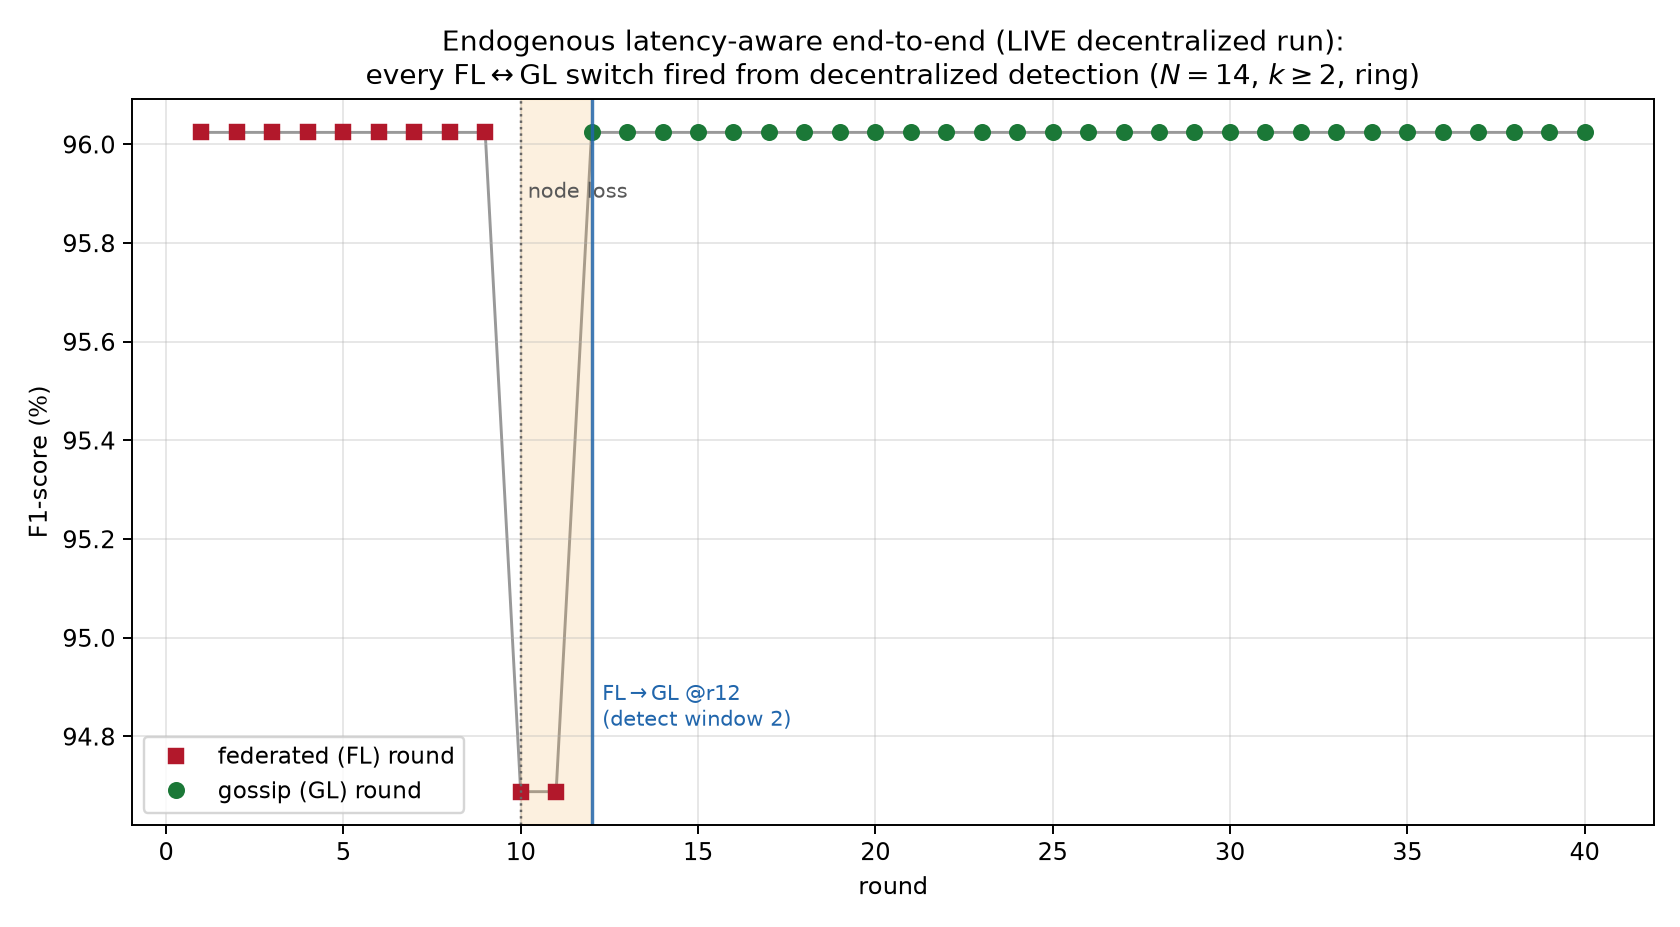
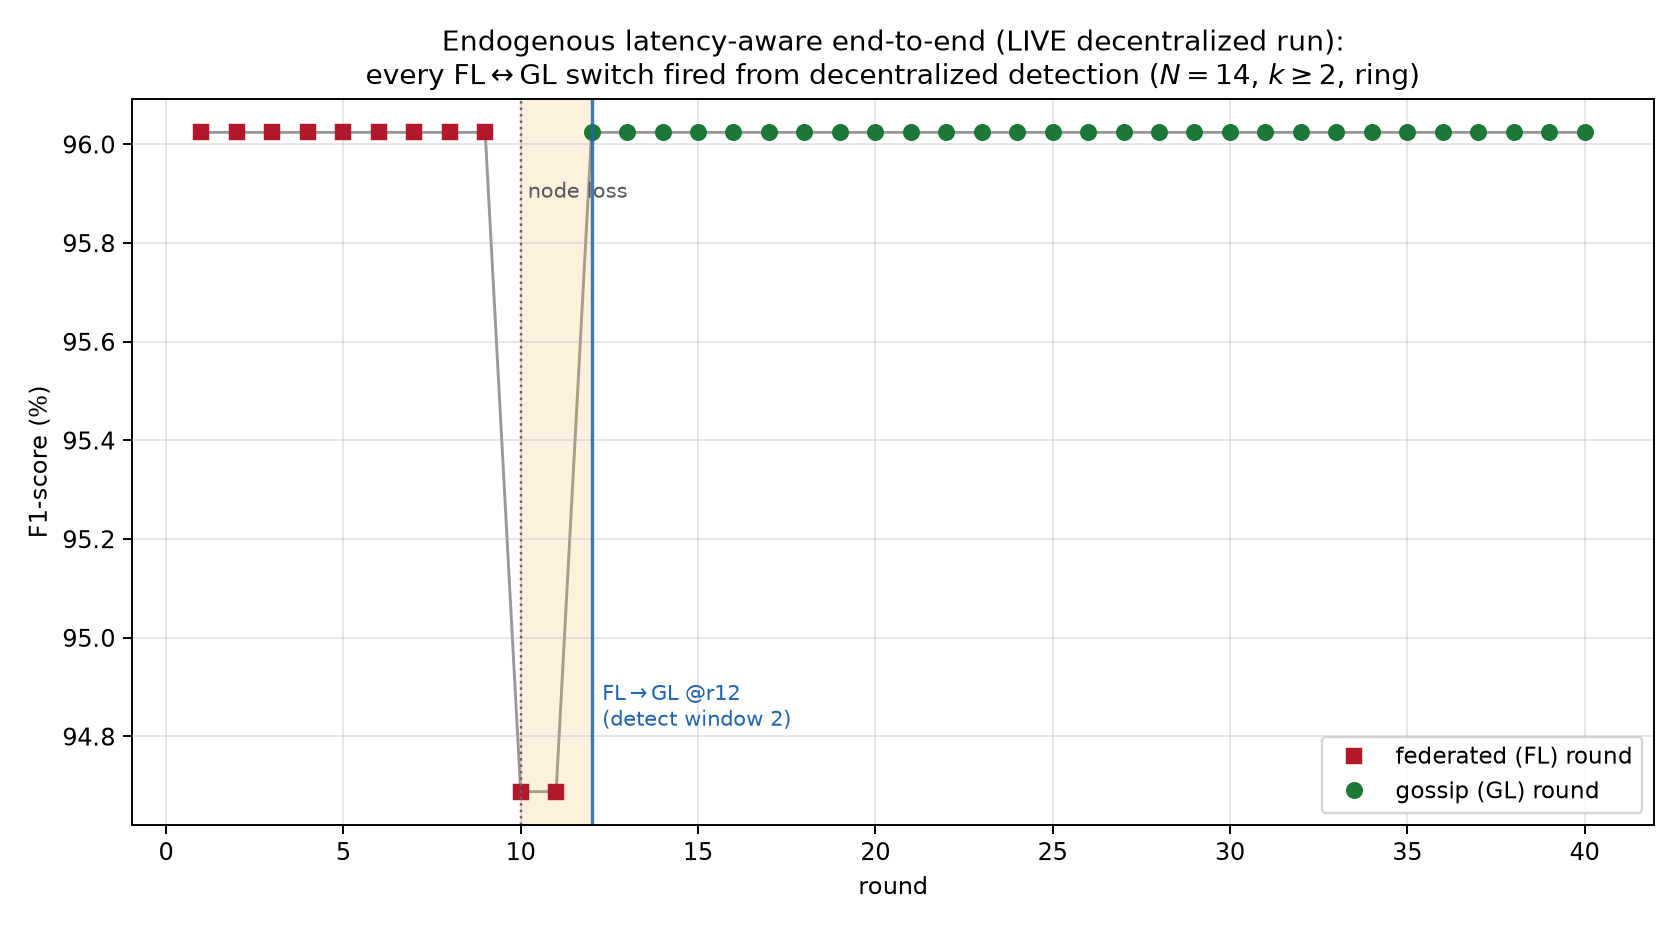
figs(v2): move endogenous-curve legend to lower-right (was overlapping the degraded points)

Changed region(s): [[0.0929, 0.7853, 0.2786, 0.8759], [0.8048, 0.7853, 0.9595, 0.8759]]

diff --git a/scripts/plot_endogenous_live.py b/scripts/plot_endogenous_live.py
@@ -109,7 +109,7 @@ ttl = ("Endogenous latency-aware end-to-end (LIVE decentralized run):\n"
        "every FL$\\leftrightarrow$GL switch fired from decentralized detection "
        "($N{=}14$, $k\\geq2$, ring)")
 ax.set_title(ttl, fontsize=11.5)
-ax.grid(True, alpha=0.3); ax.legend(loc="lower left", fontsize=9.5)
+ax.grid(True, alpha=0.3); ax.legend(loc="lower right", fontsize=9.5)
 fig.tight_layout()
 fig.savefig(out + ".png", dpi=175)
 fig.savefig(out + ".pdf")
